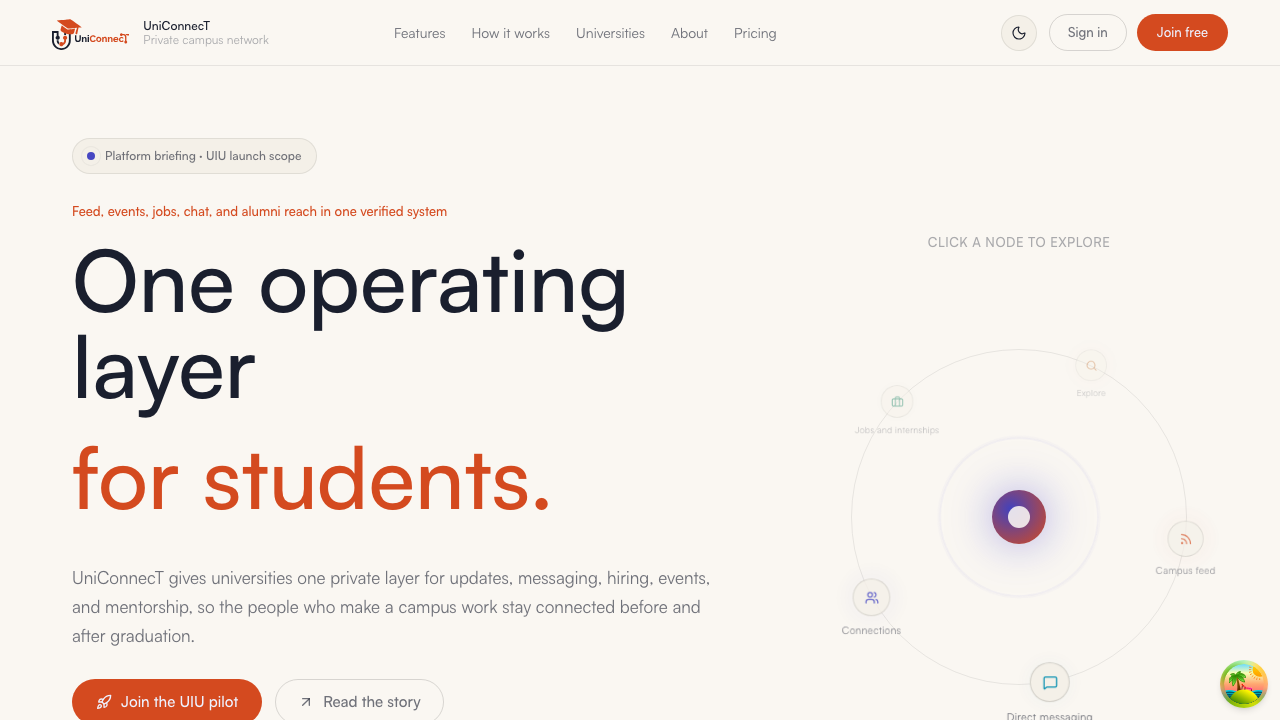
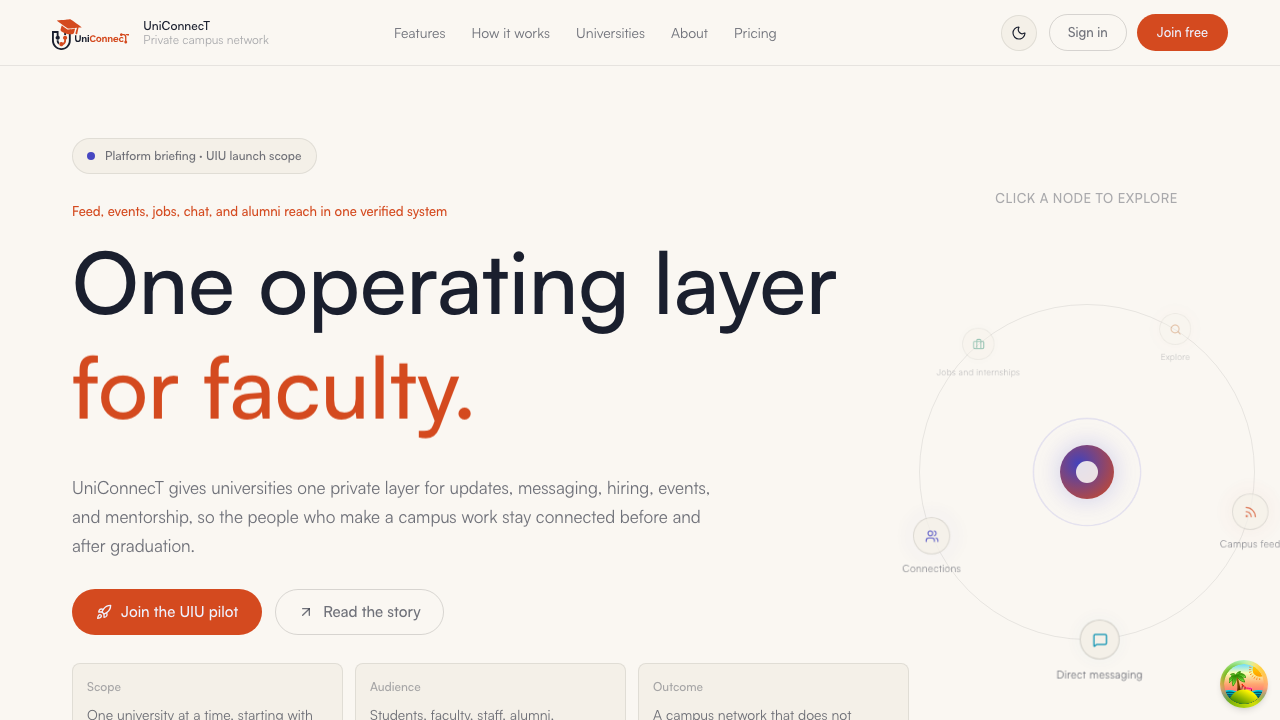
again update

diff --git a/apps/web/playwright-report/index.html b/apps/web/playwright-report/index.html
@@ -87,4 +87,4 @@ Error generating stack: `+l.message+`
     <div id='root'></div>
   </body>
 </html>
[2 lines of base64/hex data omitted]

diff --git a/apps/web/src/styles/landing.css b/apps/web/src/styles/landing.css
@@ -300,7 +300,7 @@
   margin: 0 auto;
   min-height: calc(100vh - 66px);
   display: grid;
-  grid-template-columns: minmax(0, 1.3fr) minmax(0, 0.7fr);
+  grid-template-columns: minmax(0, 1.55fr) minmax(0, 0.45fr);
   gap: 56px;
   align-items: center;
   padding: 72px 52px 60px;
@@ -309,18 +309,17 @@
 
 .uc-hero-headline {
   margin: 0;
-  display: flex;
-  flex-direction: column;
-  gap: 8px;
+  display: block;
   font-size: clamp(32px, 8vw, 86px);
   font-weight: 500;
-  line-height: 1;
+  line-height: 1.05;
   color: var(--text-primary);
 }
 
 .uc-hero-kinetic-window {
   position: relative;
-  display: block;
+  display: inline-block;
+  vertical-align: bottom;
   height: 1.4em;
   overflow: hidden;
   color: var(--uc-orange);

diff --git a/apps/web/src/features/landing/components/HeroSection.tsx b/apps/web/src/features/landing/components/HeroSection.tsx
@@ -191,7 +191,7 @@ export function HeroSection() {
               className="uc-hero-headline"
               aria-label="One operating layer for students, faculty, alumni, and campus teams."
             >
-              <span aria-hidden="true">One operating layer</span>
+              <span aria-hidden="true">One operating layer&nbsp;</span>
               <span className="uc-hero-kinetic-window" aria-hidden="true">
                 <span className={`uc-hero-kinetic-track${motionActive ? '' : ' is-paused'}`}>
                   {duplicatedLines.map((line, index) => (
